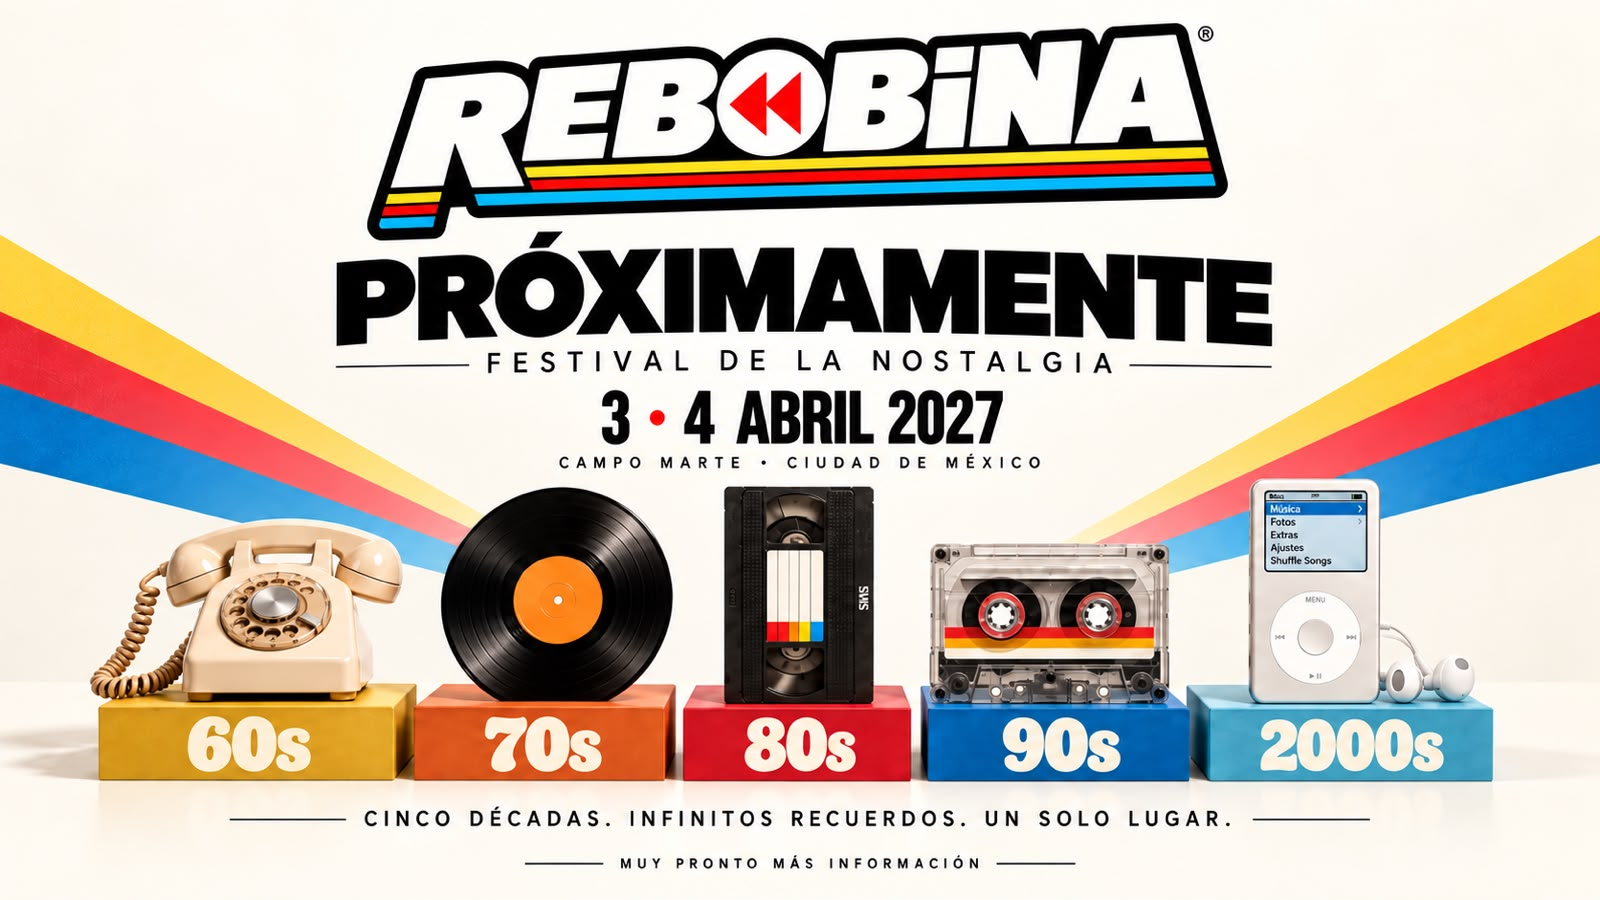
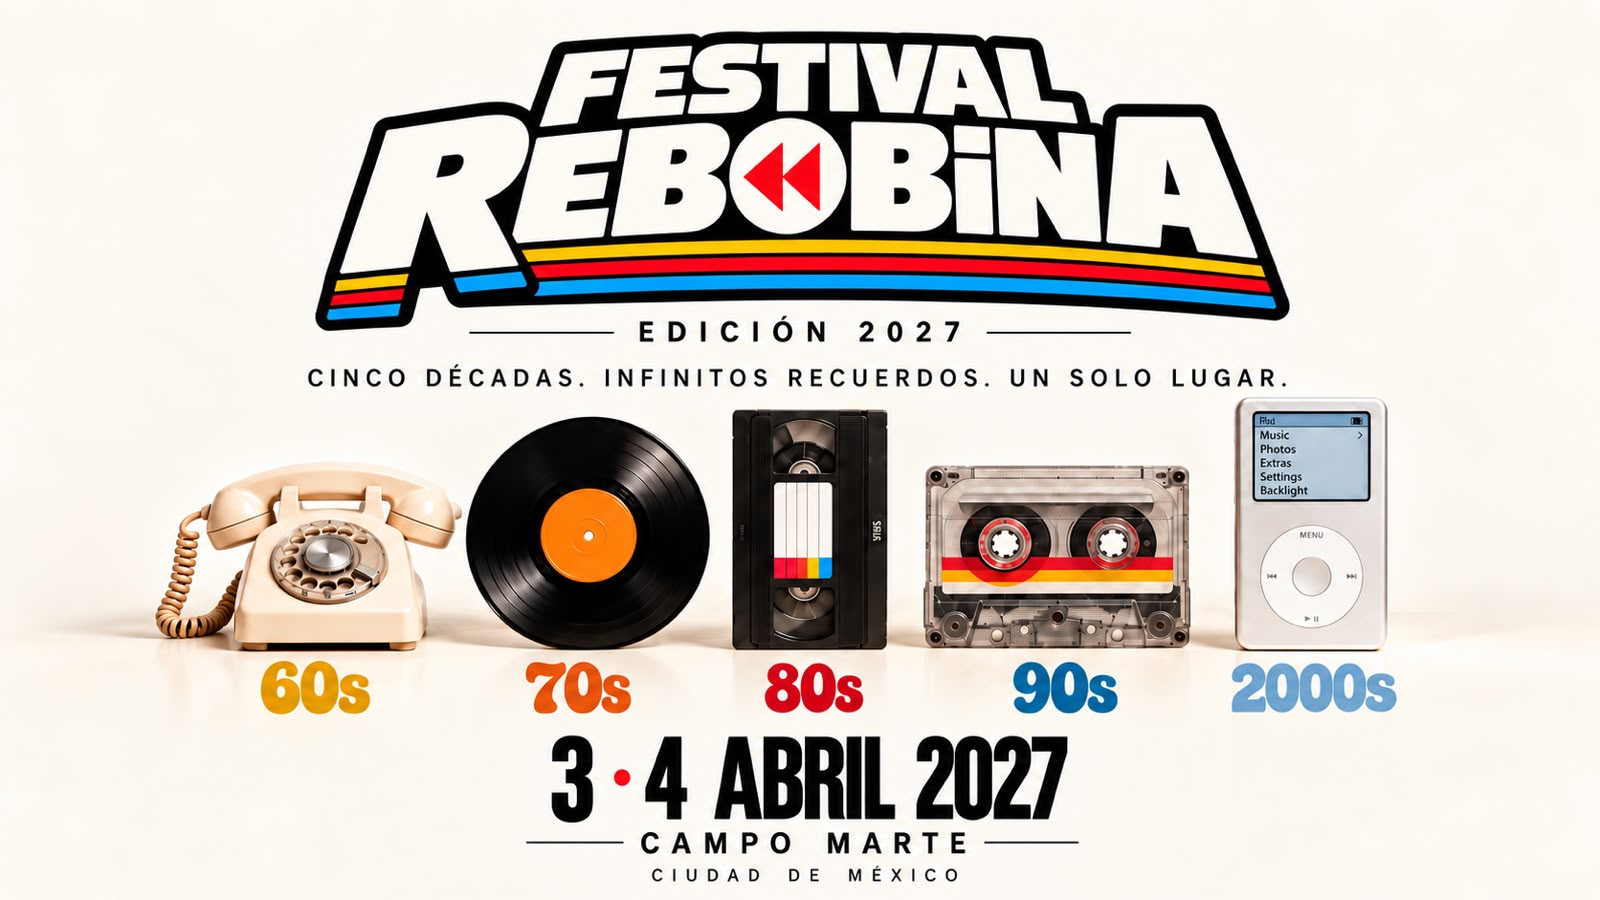
feat: actualizar póster a la edición 2027
- Nuevo arte oficial (vertical y horizontal) en public/img
- Copy, title, alt y Open Graph pasan de 'próximamente' a 'Edición 2027'

Claude-Session: https://claude.ai/code/session_01Fk7294vbmaJL79z94VpeUf

diff --git a/src/index.html b/src/index.html
@@ -2,16 +2,16 @@
 <html lang="es">
 <head>
   <meta charset="utf-8">
-  <title>REBOBINA · Festival de la Nostalgia · 3 y 4 de Abril 2027</title>
+  <title>REBOBINA · Festival de la Nostalgia · Edición 2027</title>
   <base href="/">
   <meta name="viewport" content="width=device-width, initial-scale=1">
-  <meta name="description" content="REBOBINA, el Festival de la Nostalgia. Cinco décadas, infinitos recuerdos, un solo lugar. 3 y 4 de abril de 2027 en Campo Marte, Ciudad de México.">
+  <meta name="description" content="Festival Rebobina, edición 2027. Cinco décadas, infinitos recuerdos, un solo lugar. 3 y 4 de abril de 2027 en Campo Marte, Ciudad de México.">
   <meta name="theme-color" content="#fefcf7">
   <link rel="icon" type="image/x-icon" href="favicon.ico">
 
   <!-- Open Graph / redes sociales -->
   <meta property="og:type" content="website">
-  <meta property="og:title" content="REBOBINA · Festival de la Nostalgia">
+  <meta property="og:title" content="Festival Rebobina · Edición 2027">
   <meta property="og:description" content="Cinco décadas. Infinitos recuerdos. Un solo lugar. 3 y 4 de abril 2027 · Campo Marte, CDMX.">
   <meta property="og:image" content="img/poster-desktop.jpg">
   <meta name="twitter:card" content="summary_large_image">

diff --git a/src/app/pages/home/home.ts b/src/app/pages/home/home.ts
@@ -1,7 +1,7 @@
 import { ChangeDetectionStrategy, Component, signal } from '@angular/core';
 
 /**
- * Landing "próximamente" del Festival Rebobina.
+ * Landing del Festival Rebobina.
  * Por ahora solo muestra el póster oficial: versión vertical en móvil
  * y versión horizontal en escritorio, resueltas por <picture>.
  */
@@ -17,7 +17,7 @@ export class Home {
   protected readonly poster = {
     mobile: 'img/poster-mobile.jpg',
     desktop: 'img/poster-desktop.jpg',
-    alt: 'REBOBINA · Festival de la Nostalgia · 3 y 4 de abril 2027 · Campo Marte, Ciudad de México',
+    alt: 'Festival Rebobina, edición 2027 · Cinco décadas, infinitos recuerdos, un solo lugar · 3 y 4 de abril 2027 · Campo Marte, Ciudad de México',
   } as const;
 
   /** Se activa al cargar la imagen para el fade-in. */

diff --git a/src/app/app.routes.ts b/src/app/app.routes.ts
@@ -3,7 +3,7 @@ import { Routes } from '@angular/router';
 export const routes: Routes = [
   {
     path: '',
-    title: 'REBOBINA · Festival de la Nostalgia',
+    title: 'Festival Rebobina · Edición 2027',
     loadComponent: () => import('./pages/home/home').then((m) => m.Home),
   },
   { path: '**', redirectTo: '' },

diff --git a/README.md b/README.md
@@ -3,7 +3,7 @@
 Sitio oficial de **REBOBINA · Festival de la Nostalgia**
 3 y 4 de abril de 2027 · Campo Marte, Ciudad de México.
 
-Fase actual: landing de *próximamente* — la home muestra únicamente el póster oficial,
+Fase actual: la home muestra únicamente el póster oficial de la edición 2027,
 con arte vertical en móvil y horizontal en escritorio.
 
 ## Stack
